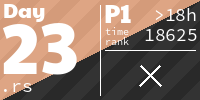
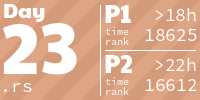
day 23 - part 2

diff --git a/src/day23.rs b/src/day23.rs
@@ -1,5 +1,7 @@
 use std::collections::{HashMap, HashSet};
 
+use itertools::Itertools;
+
 use crate::utils::*;
 
 //--------------------------------------------------------------------------------
@@ -17,18 +19,22 @@ fn comp_name_to_comp_id(comp_name: &str) -> usize {
     let chars = comp_name.chars().collect::<Vec<_>>();
     let c0 = chars[0];
     let c1 = chars[1];
-    (c0 as usize) + (c1 as usize) * 256
+    (c1 as usize) + (c0 as usize) * 256
 }
 
 fn comp_id_to_comp_name(comp_id: usize) -> String {
     let c0 = char::from_u32((comp_id / 256) as u32).unwrap();
     let c1 = char::from_u32((comp_id % 256) as u32).unwrap();
-    format!("{}{}", c1, c0)
+    format!("{}{}", c0, c1)
+}
+
+fn comp_ids_to_comp_names(comp_ids: &[usize]) -> Vec<String> {
+    comp_ids.iter().map(|&c| comp_id_to_comp_name(c)).collect()
 }
 
 fn is_starting_with_t(comp_id: usize) -> bool {
-    let c1 = char::from_u32((comp_id % 256) as u32).unwrap();
-    c1 == 't'
+    let c0 = char::from_u32((comp_id / 256) as u32).unwrap();
+    c0 == 't'
 }
 
 impl Puzzle {
@@ -84,31 +90,55 @@ impl Puzzle {
         triplets.len()
     }
 
-    pub fn p2(&self) -> usize {
-        // let mut triplets = HashSet::new();
-        // for (&c1, connections) in &self.graph {
-        //     if connections.len() < 2 {
-        //         continue;
-        //     }
-        //     for &c2 in connections.iter() {
-        //         for &c3 in connections.iter() {
-        //             if c2 == c3 {
-        //                 continue;
-        //             }
-        //             // we already have c1 <-> c2
-        //             // we already have c1 <-> c3
-        //             if self.connections.contains(&(c2, c3))
-        //                 && (is_starting_with_t(c1) || is_starting_with_t(c2) || is_starting_with_t(c3))
-        //             {
-        //                 let mut triplet = [c1, c2, c3];
-        //                 triplet.sort();
-        //                 triplets.insert(triplet);
-        //             }
-        //         }
-        //     }
-        // }
-        // triplets.len()
-        10
+    pub fn clusters_of_size_n(&self, n: usize) -> HashSet<Vec<usize>> {
+        let mut triplets = HashSet::new();
+        for (&c1, connections_to_c1) in &self.graph {
+            if connections_to_c1.len() < n {
+                continue;
+            }
+            for combs in connections_to_c1.iter().combinations(n) {
+                // combs is a set of n computers connectred to c1
+
+                // then let's check that they all have at least n connections
+                let all_with_n_conns = combs.iter().all(|&&c| self.graph.get(&c).unwrap().len() >= n);
+                if !all_with_n_conns {
+                    continue;
+                }
+
+                // now check if they are all connected to each other
+                let all_connected = combs
+                    .iter()
+                    .map(|&&c| c)
+                    .combinations(2)
+                    .all(|pair| self.connections.contains(&(pair[0], pair[1])));
+                if !all_connected {
+                    continue;
+                }
+
+                let mut triplet: Vec<usize> = combs.iter().map(|&&c| c).collect();
+                triplet.push(c1);
+                triplet.sort();
+                // triplet.reverse();
+                triplets.insert(triplet);
+            }
+        }
+        triplets
+    }
+
+    pub fn p2(&self) -> String {
+        let max_connections = self.graph.values().map(|v| v.len()).max().unwrap();
+        println!("[DDA] day23::max_connections {:?}", max_connections);
+
+        let mut largest_cluster = String::new();
+
+        for i in 2..=max_connections {
+            let clusters = self.clusters_of_size_n(i);
+            if clusters.len() == 1 {
+                let first = clusters.iter().next().unwrap();
+                largest_cluster = comp_ids_to_comp_names(first).join(",");
+            }
+        }
+        largest_cluster.clone()
     }
 }
 
@@ -121,7 +151,7 @@ fn p1(input: &str) -> usize {
 // p2
 //--------------------------------------------------------------------------------
 
-fn p2(input: &str) -> usize {
+fn p2(input: &str) -> String {
     let puzzle = Puzzle::from_str(input);
     puzzle.p2()
 }
@@ -134,8 +164,8 @@ pub fn run() {
     pp_day("day23: LAN Party");
     time_it(p1, "p1", "data/23_sample.txt");
     time_it(p1, "p1", "data/23_input.txt");
-    // time_it(p2, "p2", "data/23_sample.txt");
-    // time_it(p2, "p2", "data/23_input.txt");
+    time_it(p2, "p2", "data/23_sample.txt");
+    time_it(p2, "p2", "data/23_input.txt");
 }
 
 #[cfg(test)]
@@ -146,7 +176,10 @@ mod tests {
     fn test() {
         assert_eq!(run_it(p1, "data/23_sample.txt"), 7);
         assert_eq!(run_it(p1, "data/23_input.txt"), 1284);
-        // assert_eq!(run_it(p2, "data/23_sample.txt"), 23);
-        // assert_eq!(run_it(p2, "data/23_input.txt"), 1612);
+        assert_eq!(run_it(p2, "data/23_sample.txt"), "co,de,ka,ta");
+        assert_eq!(
+            run_it(p2, "data/23_input.txt"),
+            "bv,cm,dk,em,gs,jv,ml,oy,qj,ri,uo,xk,yw"
+        );
     }
 }

diff --git a/README.md b/README.md
@@ -1,6 +1,6 @@
 <!-- AOC TILES BEGIN -->
 <h1 align="center">
-  2024 - 45 ⭐ - Rust
+  2024 - 46 ⭐ - Rust
 </h1>
 <a href="src/day01.rs">
   <img src=".aoc_tiles/tiles/2024/01.png" width="161px">
